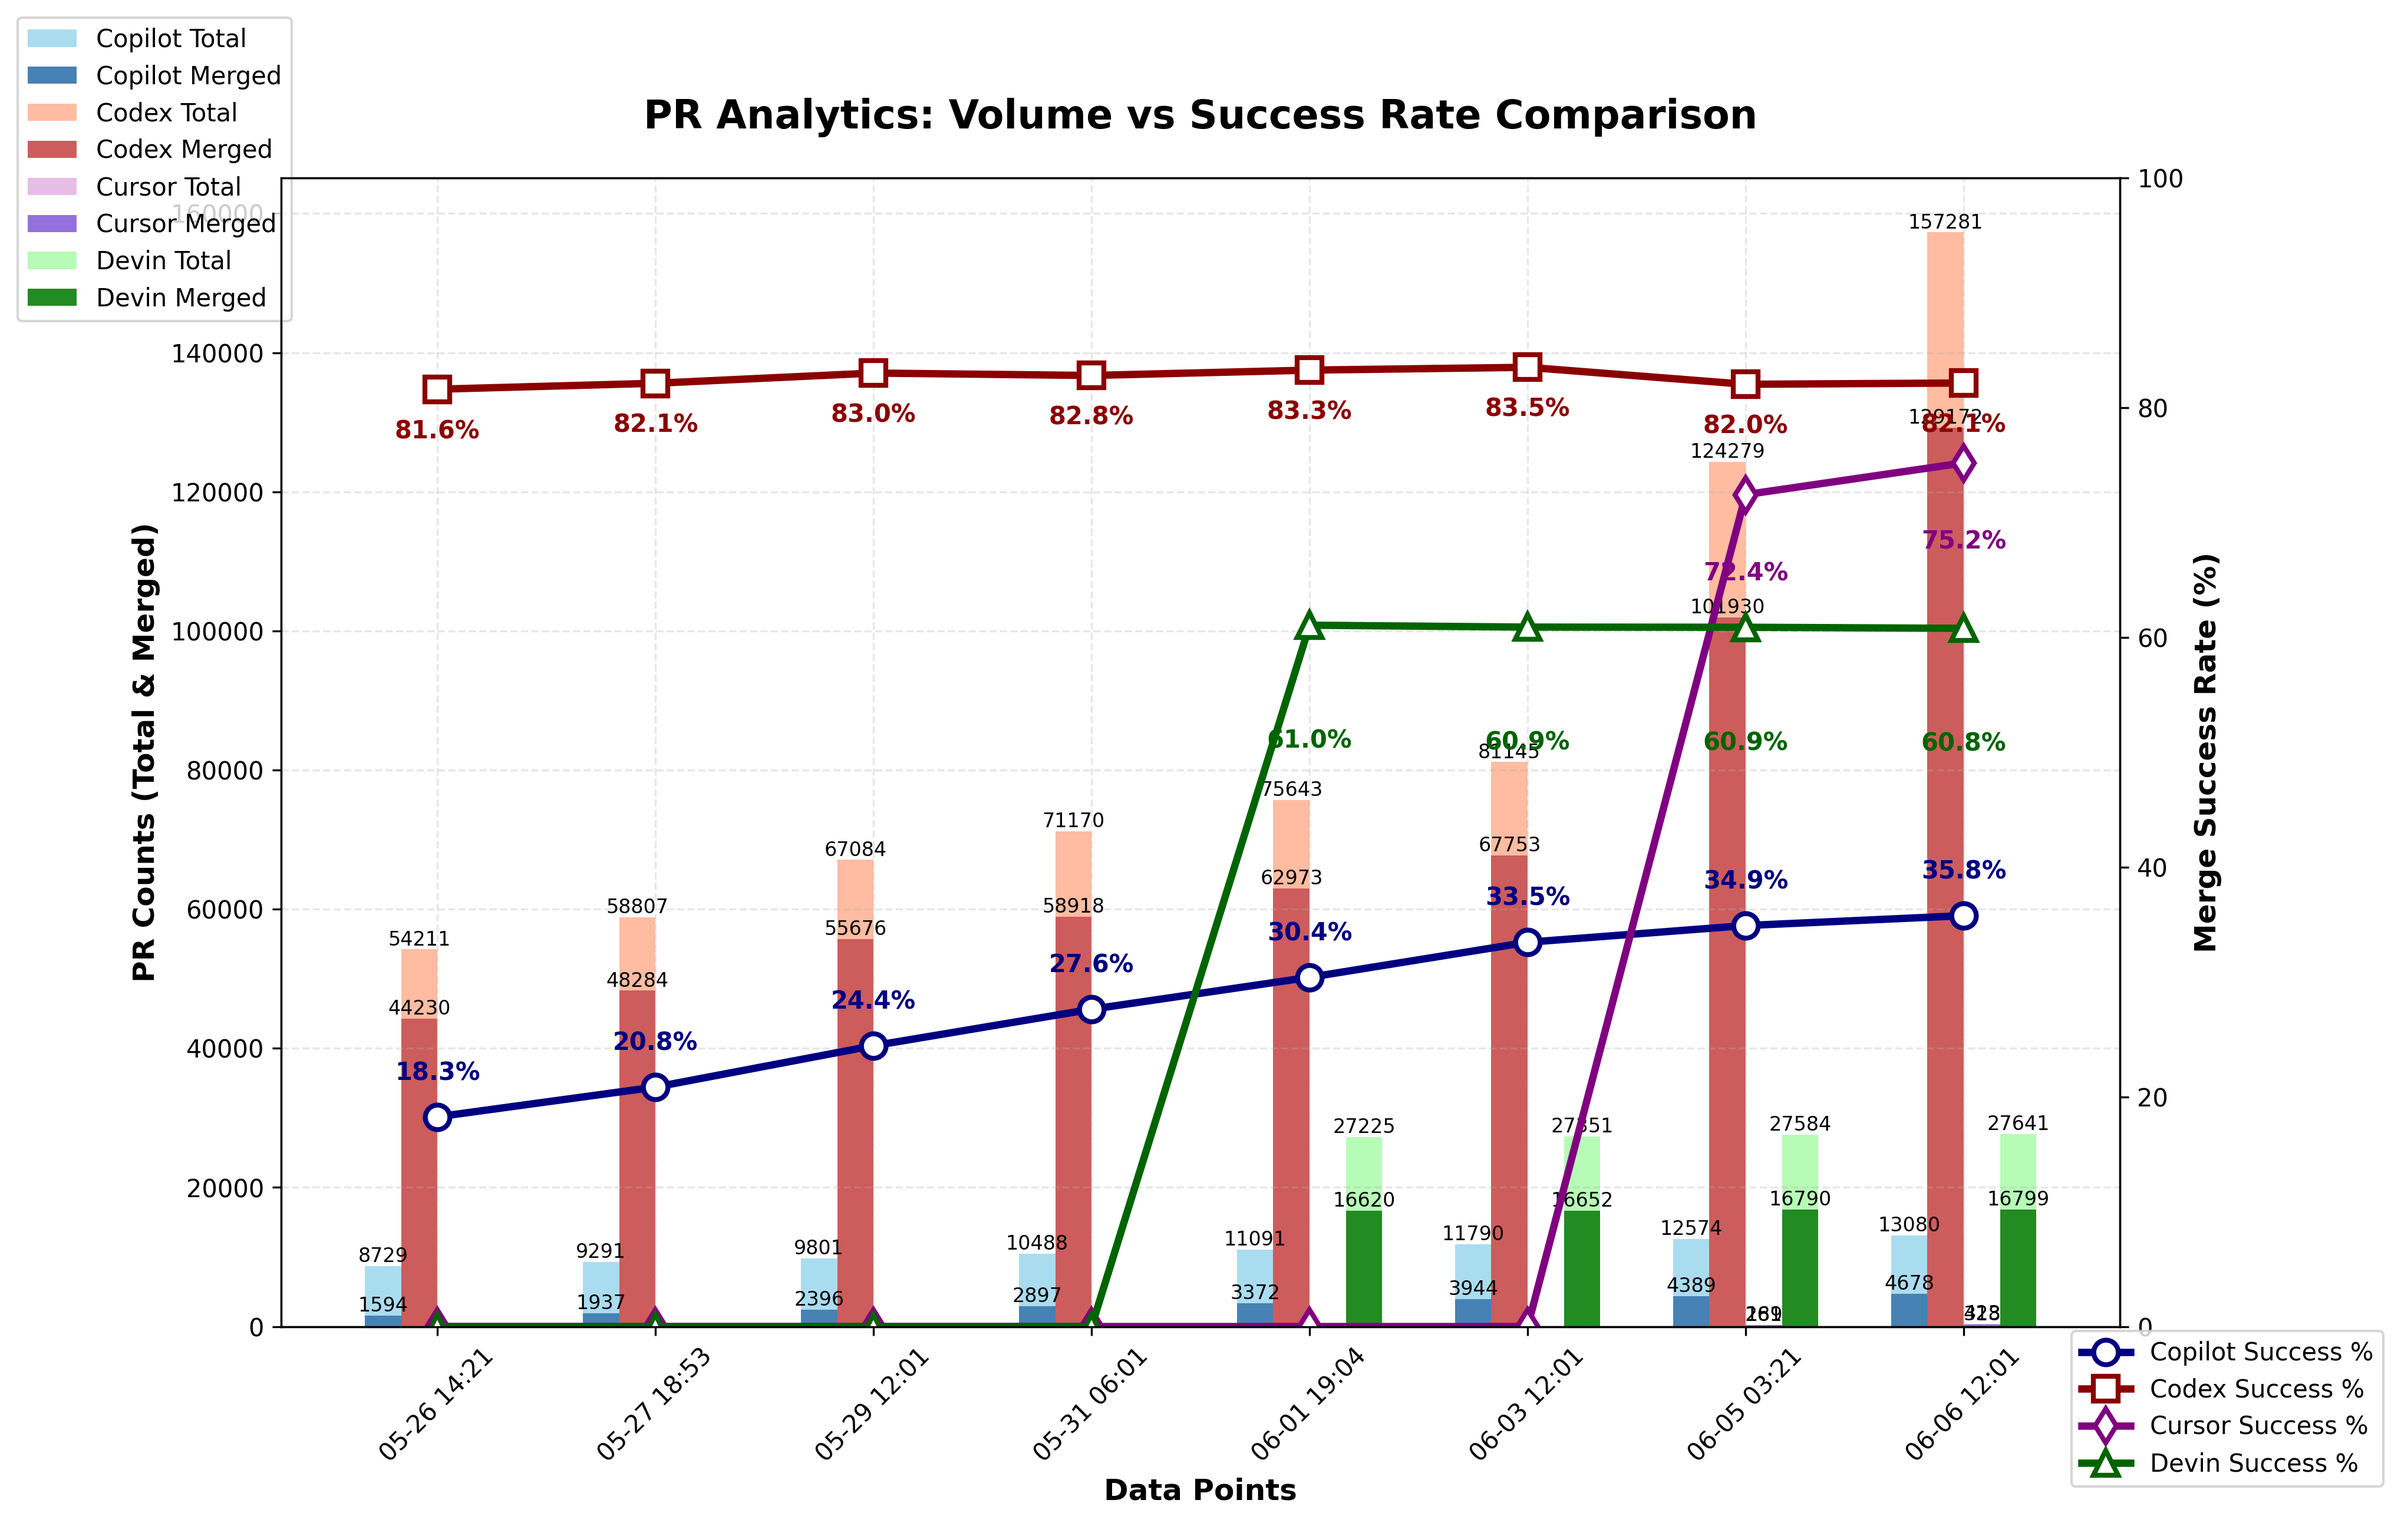
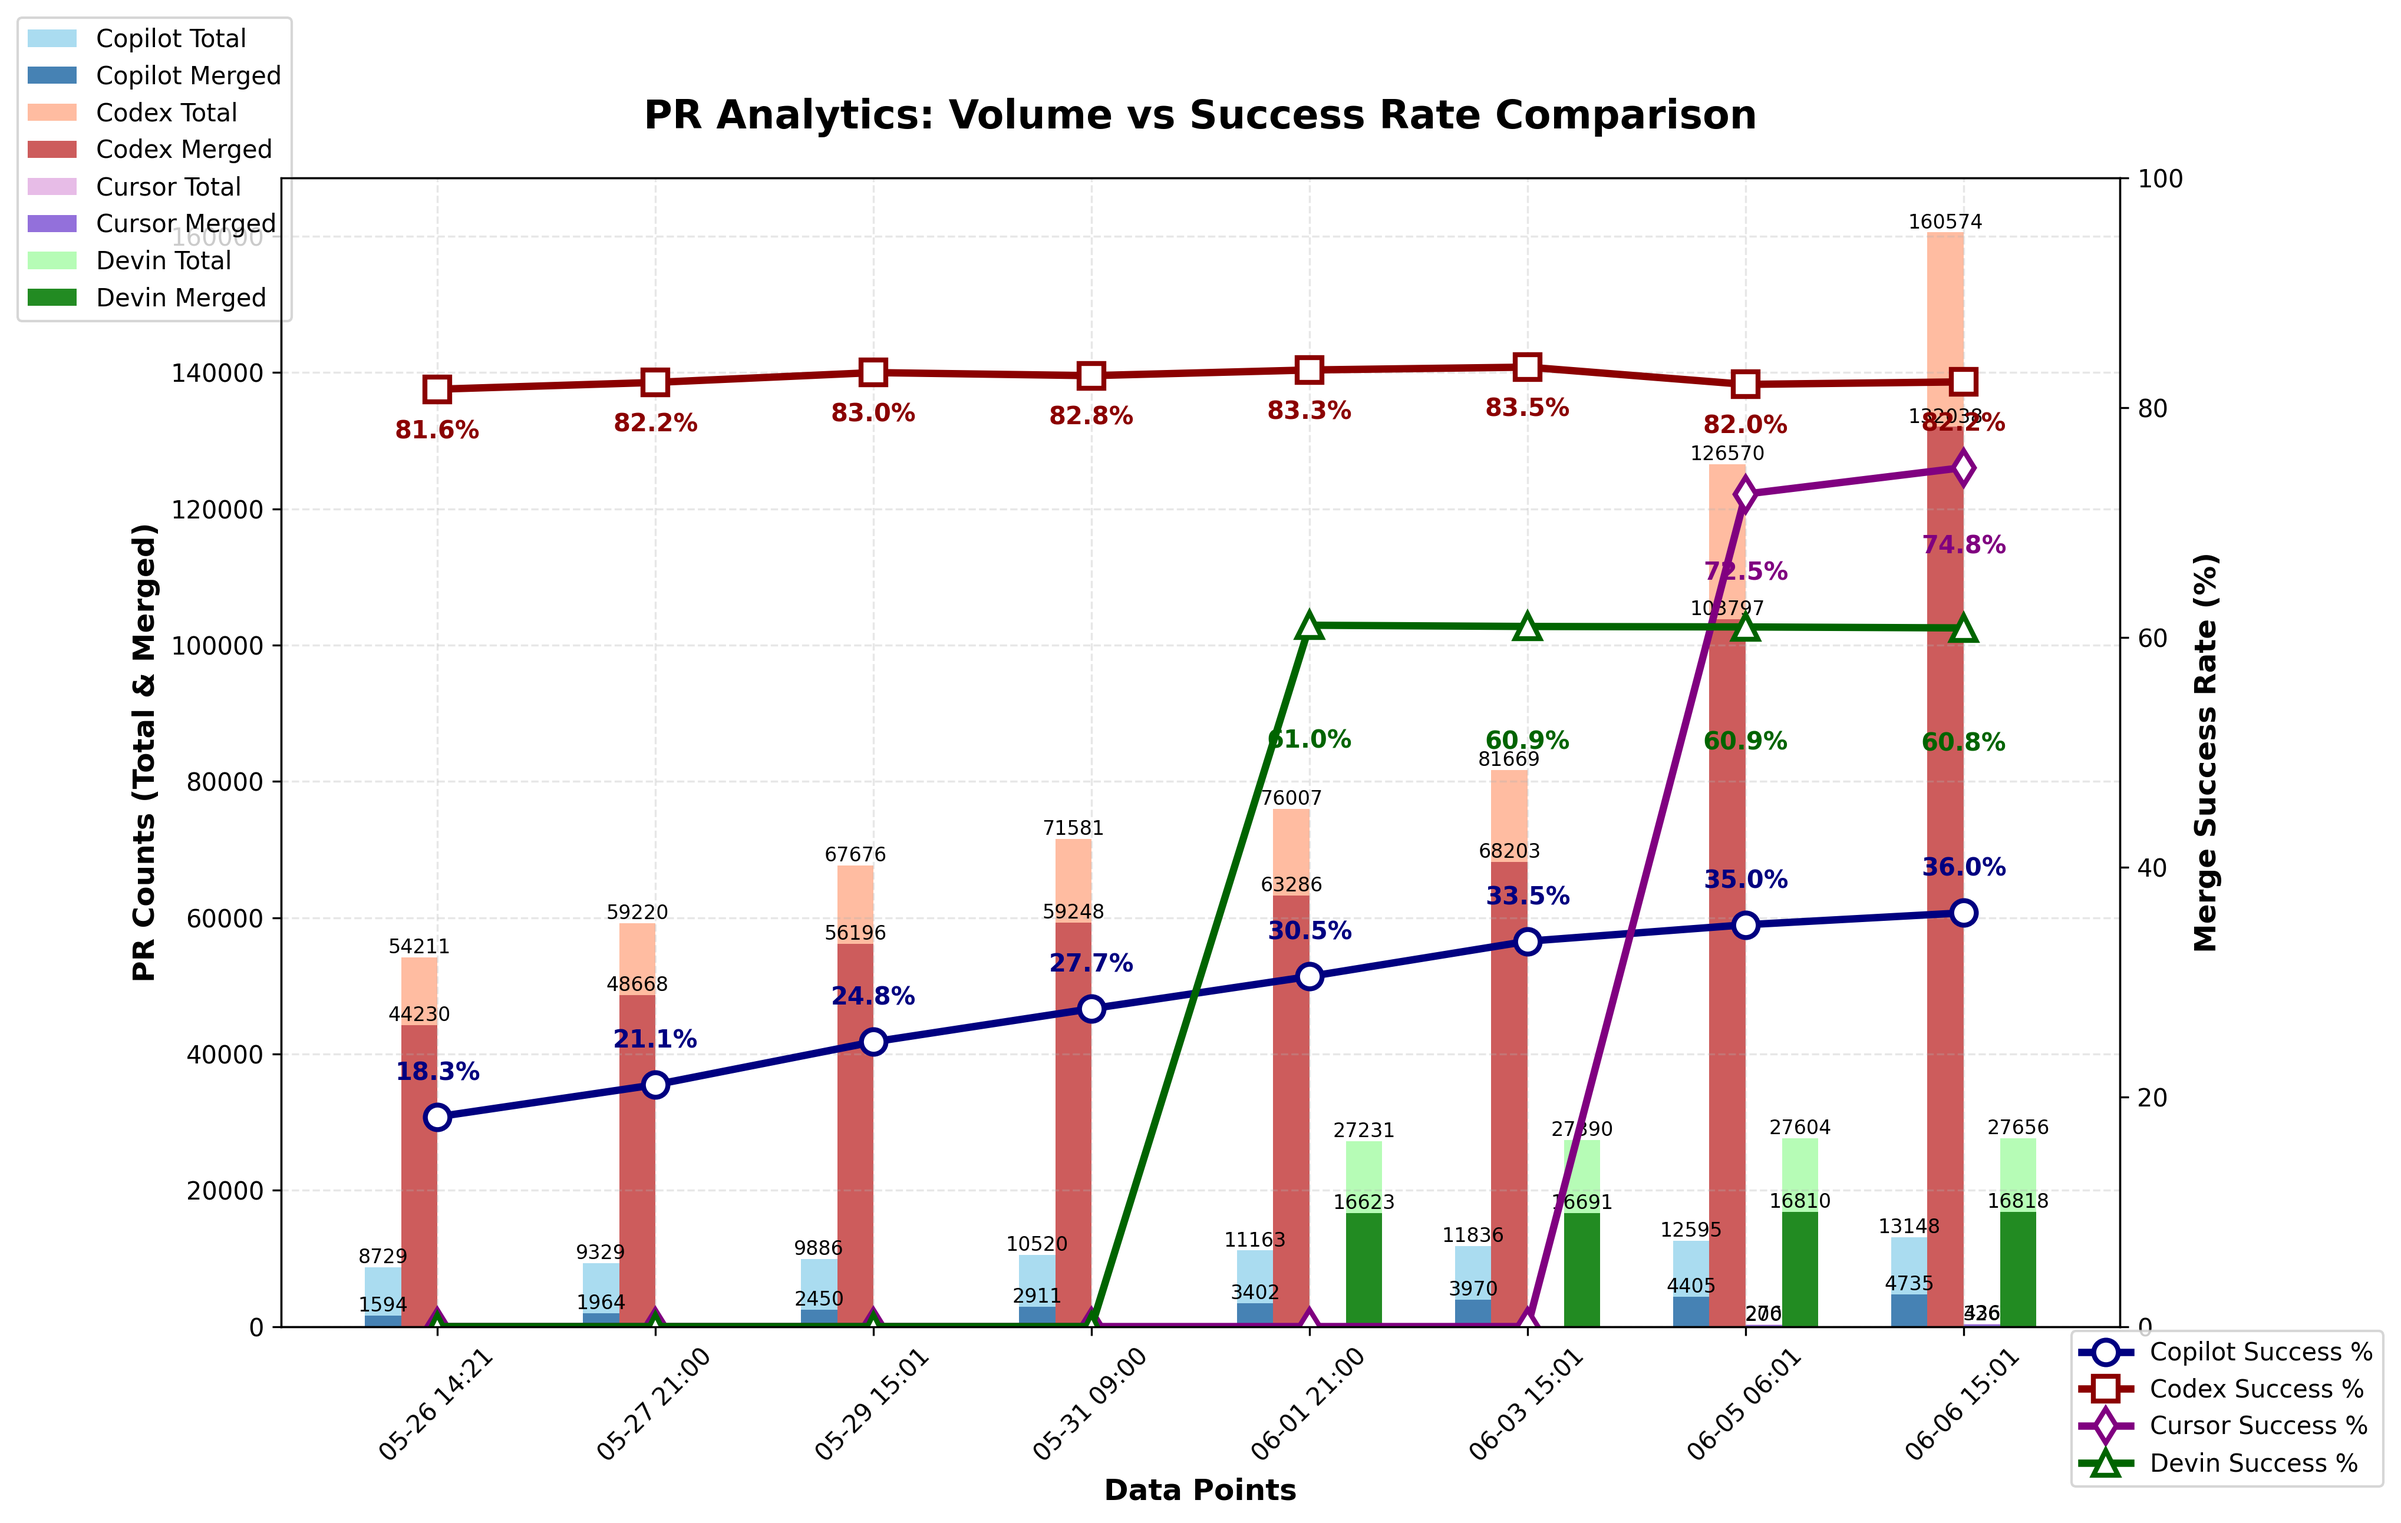
chore: update PR‑approval chart

diff --git a/docs/index.html b/docs/index.html
@@ -271,7 +271,7 @@
 
       <footer>
         <p>
-          Last updated: <span id="last-updated">June 06, 2025 12:01 UTC</span>
+          Last updated: <span id="last-updated">June 06, 2025 15:01 UTC</span>
         </p>
         <p>
           <a href="https://github.com/aavetis/ai-pr-watcher">View on GitHub</a>

diff --git a/README.md b/README.md
@@ -23,7 +23,7 @@ Explore the GitHub search queries used:
 
 | Project | Total PRs | Merged PRs | Merge Rate |
 | ------- | --------- | ---------- | ---------- |
-| Copilot | 13,080 | 4,678 | 35.76% |
-| Codex   | 157,281 | 129,172 | 82.13% |
-| Cursor  | 423 | 318 | 75.18% |
-| Devin   | 27,641 | 16,799 | 60.78% |
+| Copilot | 13,148 | 4,735 | 36.01% |
+| Codex   | 160,574 | 132,038 | 82.23% |
+| Cursor  | 436 | 326 | 74.77% |
+| Devin   | 27,656 | 16,818 | 60.81% |
